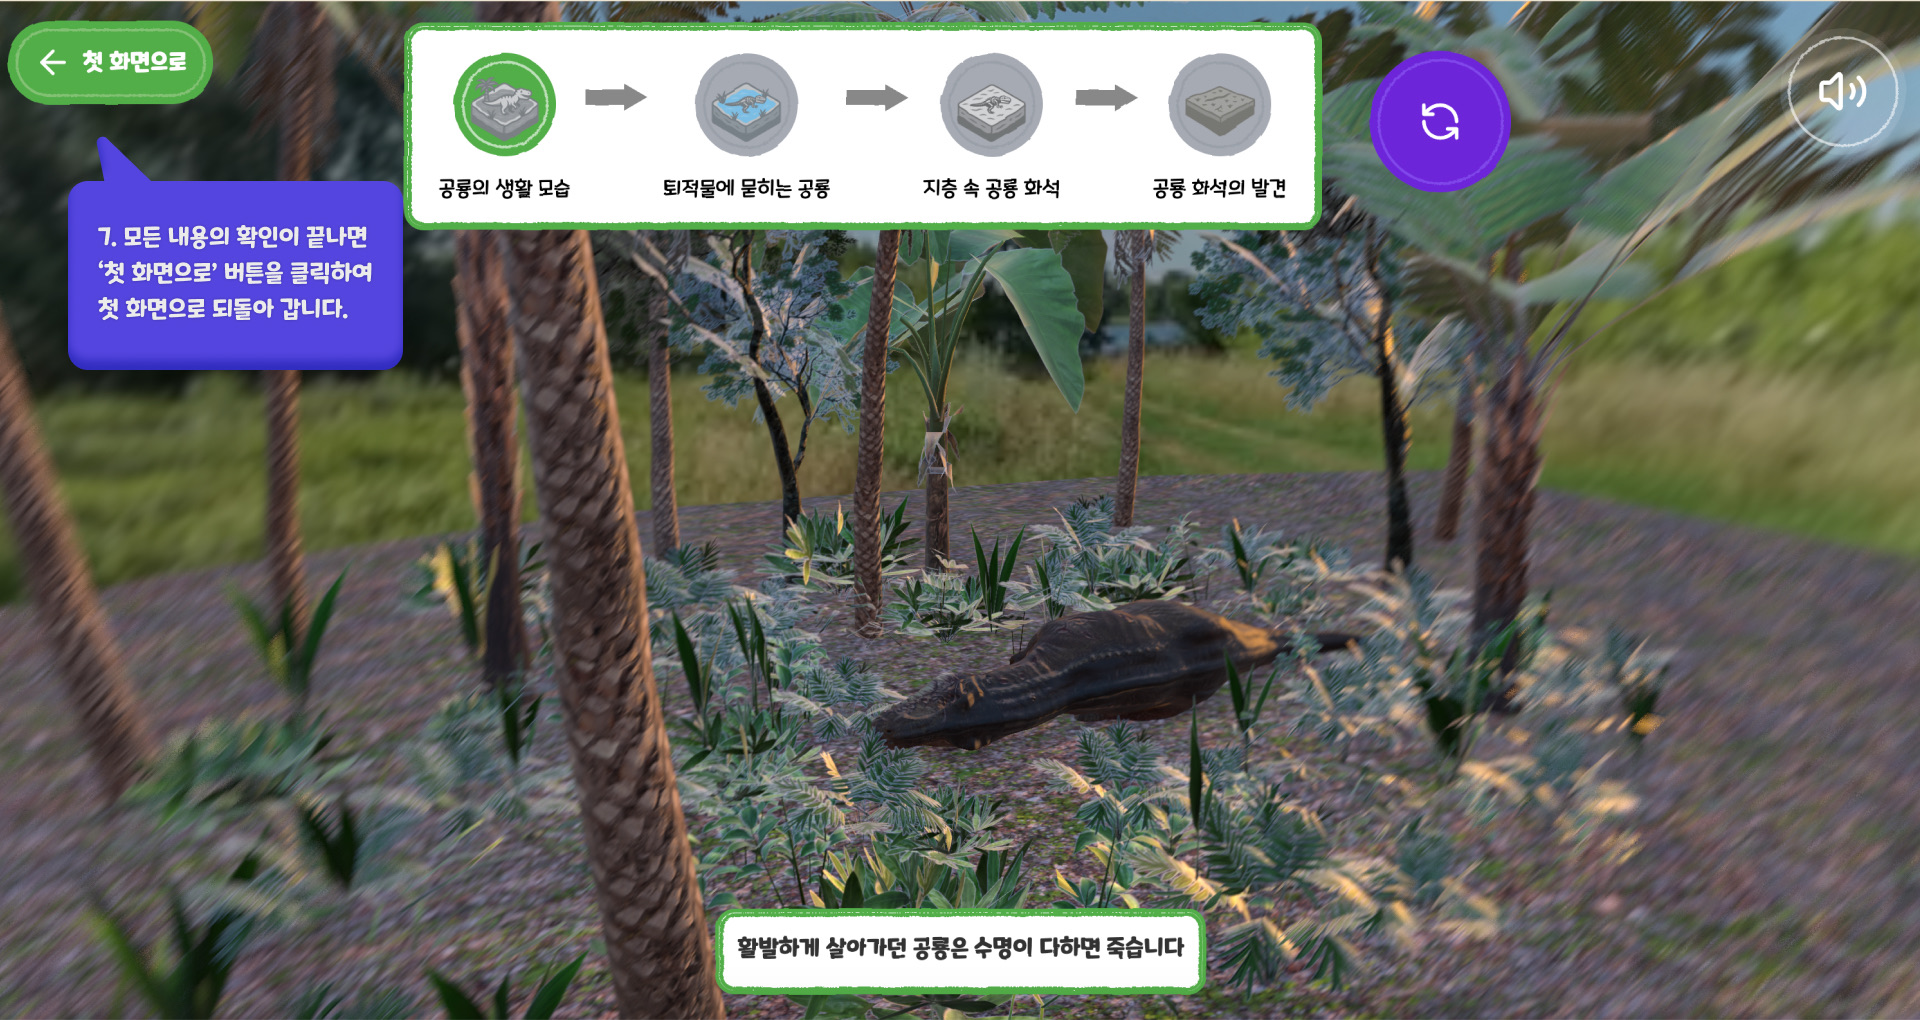
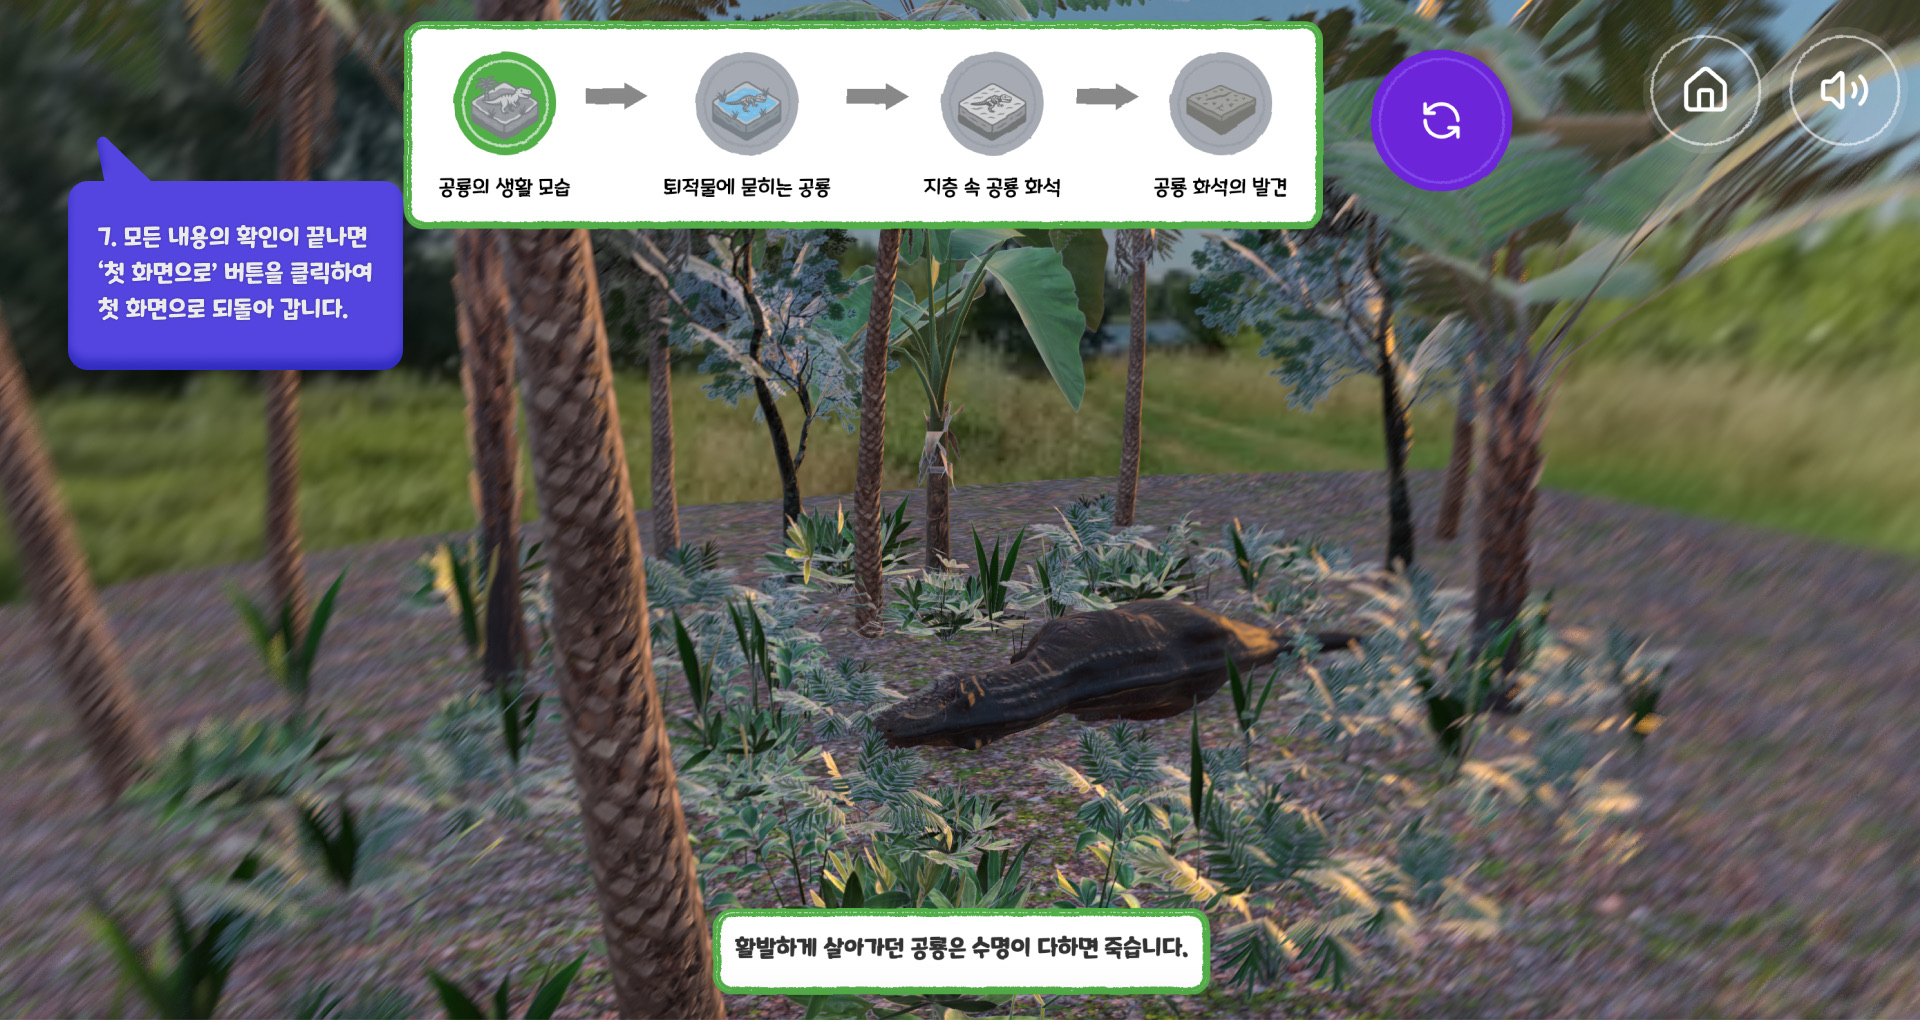
[update] 5-1-1 intro

diff --git a/client/src/pages/5-1-1.tsx b/client/src/pages/5-1-1.tsx
@@ -519,6 +519,22 @@ export default function Home() {
       {mounted && (
         <>
           <CrayonTextButton
+            ariaLabel={'첫 화면으로'}
+            icon={'home'}
+            position='absolute'
+            iconPosition='left'
+            onClick={handleBackToModeSelection}
+            width={108}
+            height={108}
+            color='#ffffff'
+            textcolor='#ffffff'
+            bg='rgba(255,255,255,0.10)'
+            className='background-blur z-[200] right-[108px] border-white/20 z-[1300]'
+            right={16}
+            top={16}
+            iconSize={40}
+          />
+          <CrayonTextButton
             ariaLabel={bgmEnabled ? '배경음악 끄기' : '배경음악 켜기'}
             icon={(bgmEnabled ? 'volume2' : 'volumeX').toLowerCase()}
             position='absolute'
@@ -529,7 +545,7 @@ export default function Home() {
             color='#ffffff'
             textcolor='#ffffff'
             bg='rgba(255,255,255,0.10)'
-            className='background-blur border-white/20 z-[1300]'
+            className='background-blur z-[200] border-white/20 z-[1300]'
             right={16}
             top={16}
             iconSize={40}
@@ -539,23 +555,6 @@ export default function Home() {
 
       {!showIntro && (
         <>
-          <CrayonTextButton
-            ariaLabel='모드 선택 화면으로 돌아가기'
-            text='첫 화면으로'
-            position='absolute'
-            icon='arrow-left'
-            iconPosition='left'
-            width={170}
-            height={75}
-            iconSize={30}
-            left={10}
-            top={10}
-            bg='#52AE46'
-            color='#A1CC90'
-            textcolor='#FFFFFF'
-            className='background-blur border-white/20 z-[1300]'
-            onClick={handleBackToModeSelection}
-          />
           <NavigationUI
             ref={navigationUIRef}
             sceneIndex={sceneIndex}

diff --git a/client/src/components/5-1-1/ActivityGuideModal.tsx b/client/src/components/5-1-1/ActivityGuideModal.tsx
@@ -101,7 +101,7 @@ const ActivityGuideModal: React.FC<{
           animate={{ scale: 1, opacity: 1 }}
           exit={{ scale: 0.95, opacity: 0 }}
           transition={{ duration: 0.25, type: 'spring', damping: 20 }}
-          className='fixed inset-0 z-[1100] flex items-center justify-center bg-black/50'
+          className='fixed inset-0 z-[1000] flex items-center justify-center bg-black/50'
           onClick={(e) => e.stopPropagation()}>
           <CrayonTextBox
             bg='#FFFFFF'
@@ -109,7 +109,7 @@ const ActivityGuideModal: React.FC<{
             textcolor='#A1CC90'
             padding={16}
             animated={true}
-            className='w-[80vw] flex flex-col'>
+            className='w-[80vw] z-[900] flex flex-col'>
             {/* 상단 닫기 버튼 */}
             <div className='shrink-0 w-full flex justify-end z-20'>
               <CrayonTextButton
